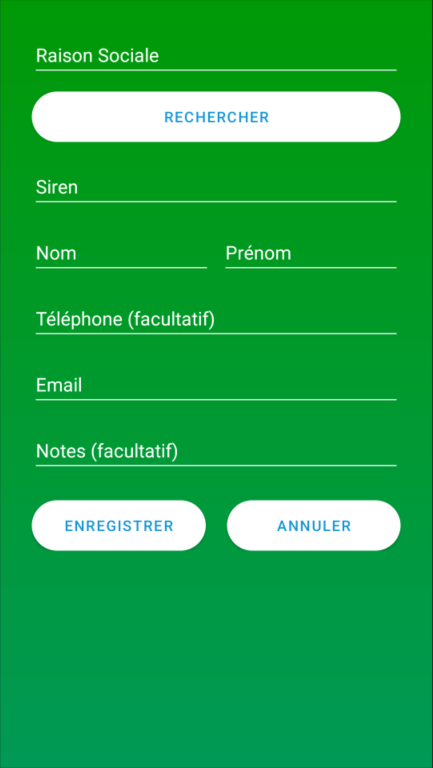
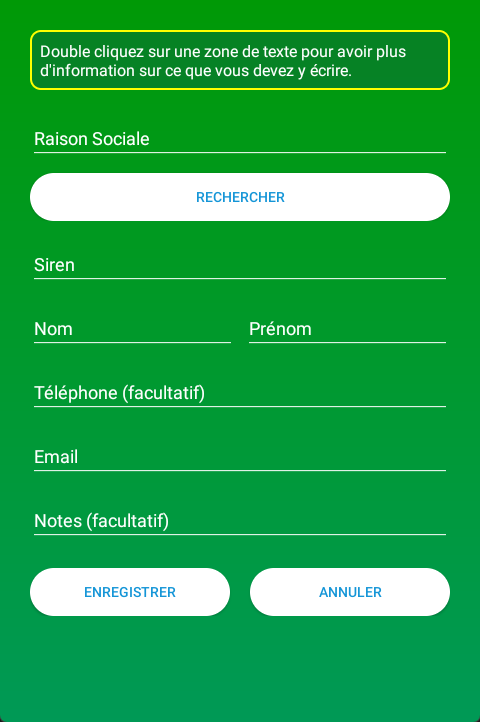
Fin git page ajoutProspect

diff --git a/app/src/main/java/fr/prospectsmanagement/activity/AjoutProspectActivity.java b/app/src/main/java/fr/prospectsmanagement/activity/AjoutProspectActivity.java
@@ -27,6 +27,7 @@ public class AjoutProspectActivity extends AppCompatActivity {
     private Button btnRechercherEntreprise = null;
     private Button btnEnregistrer = null;
     private TextView noteInfos = null;
+    private TextView preNoteInfos = null;
     private EditText raisonSociale = null;
     private EditText siretText = null;
 
@@ -53,6 +54,9 @@ public class AjoutProspectActivity extends AppCompatActivity {
 
         btnAnnuler = (Button) findViewById(R.id.btnAnnuler);
         btnAnnuler.setOnClickListener(eventBtnAnnuler);
+
+        preNoteInfos = (TextView) findViewById(R.id.preNoteInformations);
+        preNoteInfos.setText("Double cliquez sur une zone de texte pour avoir plus d'information sur ce que vous devez y écrire.");
     }
 
     /**
@@ -74,7 +78,7 @@ public class AjoutProspectActivity extends AppCompatActivity {
     };
 
     /**
-     * Fais des tests par rapport aux entrés de l'utilisateur pour vérifier leur conformité puis
+     * Fais des tests par rapport aux entrées de l'utilisateur pour vérifier leur conformité puis
      * si tout est correct crée le nouveau prospect.
      */
 
@@ -107,7 +111,7 @@ public class AjoutProspectActivity extends AppCompatActivity {
             EditText noteProspectTxt = (EditText) findViewById(R.id.Notes);
             String noteProspect = noteProspectTxt.getText().toString();
 
-            /* Initialisation des Regex pour faire des tests par rapport aux entrés de l'utilisateur */
+            /* Initialisation des Regex pour faire des tests par rapport aux entrées de l'utilisateur */
 
             String regexRaisonSociale = "[A-Za-z0-9\\é\\è\\ê\\ï\\@\\/\\*\\-]+$";
             String regexSiren = "[0-9]{9}|0";
@@ -122,7 +126,7 @@ public class AjoutProspectActivity extends AppCompatActivity {
             int noteProspectTest = 0;
             String errorMessage = "";
 
-            /* Création des tests sur les entrés de l'utilisateur */
+            /* Création des tests sur les entrées de l'utilisateur */
 
             if (nomProspectTxt.length() != 0 && prenomProspectTxt.length() != 0 && sirenProspectTxt.length() != 0
                     && raisonSocialeProspectTxt.length() != 0 && mailProspectTxt.length() != 0) {
@@ -198,6 +202,10 @@ public class AjoutProspectActivity extends AppCompatActivity {
 
     };
 
+    /**
+     * Permet d'annuler l'ajout de prospect et de revenir à la page menu.
+     */
+
     public View.OnClickListener eventBtnAnnuler = new View.OnClickListener() {
         @Override
         public void onClick(View v) {
@@ -207,10 +215,18 @@ public class AjoutProspectActivity extends AppCompatActivity {
         }
     };
 
+    /**
+     * Affiche des informations sur ce que l'utilisateur doit écrire en fonction de la zone de texte
+     * sur laquelle il a cliqué.
+     */
+
     @SuppressLint("NonConstantResourceId")
     public void infosEntrees(View v){
+        LinearLayout preInfosAjoutProspect = findViewById(R.id.preInfosAjoutProspect);
+        preInfosAjoutProspect.setVisibility(View.GONE);
         LinearLayout InfosAjoutProspect = findViewById(R.id.InfosAjoutProspect);
         InfosAjoutProspect.setVisibility(View.VISIBLE);
+
         noteInfos = (TextView) findViewById(R.id.noteInformations);
 
         switch(v.getId()){
@@ -236,7 +252,7 @@ public class AjoutProspectActivity extends AppCompatActivity {
                 noteInfos.setText("La Note a une taille maximale de 2.\nElle doit être comprise entre 0 et 20.\nSont autorisés :\n- Les chiffres");
                 break;
         }
-    }
+    };
 
     private void boiteMessage(String msg) {
         AlertDialog.Builder boite = new AlertDialog.Builder(AjoutProspectActivity.this);

diff --git a/docs/javaAndroid/ajoutProspect.md b/docs/javaAndroid/ajoutProspect.md
@@ -4,7 +4,7 @@
 La classe `AjoutProspectActivity` hérite de `AppCompatActivity`. Sont but est de permettre la création d'un nouveau prospect.
 Elle utilise la page layout `activity_addprospect` en tant que FrontEnd.
 
-![ajoutProspect](././assets/ajoutProspect.png)
+![ajoutProspect](../assets/ajoutProspect.png)
 
 ## Méthodes
 
@@ -28,7 +28,7 @@ Le Premier intitulé `eventBtnRechercherEntreprise` est lié au bouton Recherche
 Il permet quand on clique dessus de rechercher grâce à l'API du gouvernement sur les entreprises, le numéro Siren de la raison sociale qu'on a écrit dans
 le EditText au dessus du bouton.
 
-![rechercheSiren](././assets/rechercheSiren.png)
+![rechercheSiren](../assets/rechercheSiren.png)
 
 Pour ce qui est du deuxième, il est intitulé `eventBtnEnregistrer` et est lié au bouton Enregistrer.
 La méthode fais 115 lignes. (en contant les sauts de lignes et les commentaires)
@@ -63,7 +63,7 @@ La méthode fais 115 lignes. (en contant les sauts de lignes et les commentaires
             EditText noteProspectTxt = (EditText) findViewById(R.id.Notes);
             String noteProspect = noteProspectTxt.getText().toString();
 
-            /* Initialisation des Regex pour faire des tests par rapport aux entrés de l'utilisateur */
+            /* Initialisation des Regex pour faire des tests par rapport aux entrées de l'utilisateur */
 
             String regexRaisonSociale = "[A-Za-z0-9\\é\\è\\ê\\ï\\@\\/\\*\\-]+$";
             String regexSiren = "[0-9]{9}|0";
@@ -78,7 +78,7 @@ La méthode fais 115 lignes. (en contant les sauts de lignes et les commentaires
             int noteProspectTest = 0;
             String errorMessage = "";
 
-            /* Création des tests sur les entrés de l'utilisateur */
+            /* Création des tests sur les entrées de l'utilisateur */
 
             if (nomProspectTxt.length() != 0 && prenomProspectTxt.length() != 0 && sirenProspectTxt.length() != 0
                     && raisonSocialeProspectTxt.length() != 0 && mailProspectTxt.length() != 0) {
@@ -154,3 +154,66 @@ La méthode fais 115 lignes. (en contant les sauts de lignes et les commentaires
 
     };
 ```
+Il y a 3 parties coupées par des commentaires.
+La première qui permet d'obtenir sous la forme d'une chaine de caractère ce que l'utilisateur a écrit dans chacun des EditText.
+La seconde qui met en place les Regex pour les prochains tests.
+Et finalement les tests sur ce que l'usager à mis comparés aux Regex.
+
+
+Pour la troisième méthode, nous sommes sur le bouton annuler.
+```java
+    public View.OnClickListener eventBtnAnnuler = new View.OnClickListener() {
+        @Override
+        public void onClick(View v) {
+            Intent retourMenu = new Intent(AjoutProspectActivity.this, MenuActivity.class);
+            retourMenu.putExtra("employee", lEmployee);
+            startActivity(retourMenu);
+        }
+    };
+```
+Elle nous permet de revenir sur la page précédente et donc d'annuler toute tentative d'ajout de prospect.
+
+### Aide aux entrées
+La méthode d'aide aux entrées va permettre d'informer l'utilisateur sur ce qu'il doit écrire dans chacune des zones de texte.
+Pour cela, l'utilisateur doit double cliquer sur un des EditText.
+
+```java
+    public void infosEntrees(View v){
+        LinearLayout preInfosAjoutProspect = findViewById(R.id.preInfosAjoutProspect);
+        preInfosAjoutProspect.setVisibility(View.GONE);
+        LinearLayout InfosAjoutProspect = findViewById(R.id.InfosAjoutProspect);
+        InfosAjoutProspect.setVisibility(View.VISIBLE);
+
+        noteInfos = (TextView) findViewById(R.id.noteInformations);
+
+        switch(v.getId()){
+            case R.id.RaisonSociale :
+                noteInfos.setText("La Raison sociale est le nom d'une société.\nSa taille maximale est de 50.\nSont autorisés :\n- Les chiffres et les lettres.\n- Les signes '/', '@', '*'.");
+                break;
+            case R.id.Siren :
+                noteInfos.setText("Le Siren est le numéro d'identification d'une entreprise.\nSa taille maximale est de 9.\nSont autorisés :\n- Les chiffres.");
+                break;
+            case R.id.Nom :
+                noteInfos.setText("Le Nom a une taille maximale de 35.\nSont autorisés :\n- Les lettres.\n- Le signe '-'.");
+                break;
+            case R.id.Prenom :
+                noteInfos.setText("Le Prénom a une taille maximale de 25.\nSont autorisés :\n- Les lettres.\n- Le signe '-'.");
+                break;
+            case R.id.Telephone :
+                noteInfos.setText("Le Numéro de téléphone a une taille maximale de 14.\nIl peut commencer par '0033','33','0' et est suivi de 8 chiffres\nSont autorisés :\n- Les chiffres.");
+                break;
+            case R.id.Email :
+                noteInfos.setText("L'Adresse e-mail a une taille maximale de 100.\nElle doit suivre l'exemple suivant : ABC@example.com\nSont autorisés :\n- Les chiffres et les lettres.\n- Les signes '.','-','_'");
+                break;
+            case R.id.Notes :
+                noteInfos.setText("La Note a une taille maximale de 2.\nElle doit être comprise entre 0 et 20.\nSont autorisés :\n- Les chiffres");
+                break;
+        }
+    };
+```
+
+Le rectangle indiquant qu'il doit double cliquer disparait pour laisser apparaitre le vrai rectangle d'une taille plus grande contenant les bonnes
+informations.
+
+Exemple : L'utilisateur appuie sur la raison sociale.
+![testRaisonSociale](../assets/testRaisonSociale.png)
